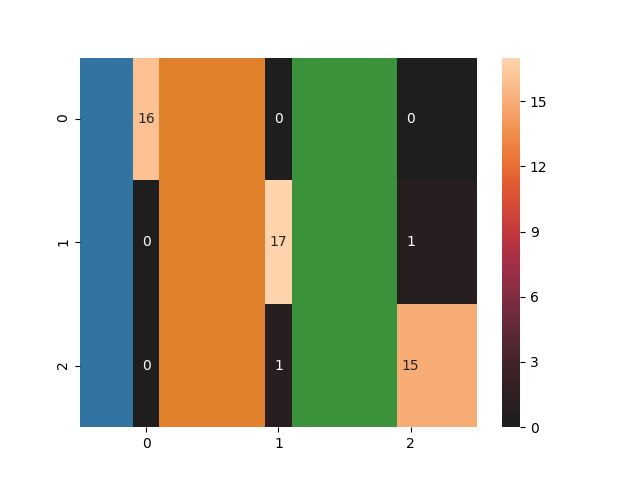
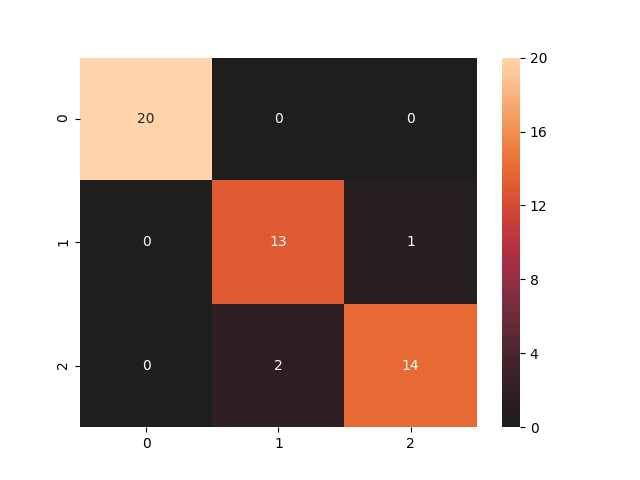
print buona

diff --git a/11-EvaluateAModel/main.py b/11-EvaluateAModel/main.py
@@ -4,6 +4,7 @@ from sklearn.metrics import accuracy_score, confusion_matrix, recall_score
 from sklearn.model_selection import train_test_split
 from sklearn.tree import DecisionTreeClassifier
 import numpy as np
+import matplotlib.pyplot as plt
 
 iris = load_iris()
 x = iris.data
@@ -17,14 +18,19 @@ decision_tree = DecisionTreeClassifier()
 decision_tree.fit(x_train, y_train)
 decision_tree_predictions = decision_tree.predict(x_test)
 
+plt.close()
+
 cnf_matrix = confusion_matrix(y_test, decision_tree_predictions)
-sns_plot = seaborn.heatmap(cnf_matrix, annot=True, fmt="d", center=0)
+sns_plot = seaborn.heatmap(cnf_matrix, annot=True, center=0)
 sns_plot.figure.savefig("cnf_matrix.png")
+plt.close()
+
 
 normalized_cnf_matrix = cnf_matrix.astype('float') / cnf_matrix.sum(axis=1)[:, np.newaxis]
-print(normalized_cnf_matrix)
 sns_plot = seaborn.heatmap(normalized_cnf_matrix, annot=True, center=0)
 sns_plot.figure.savefig("normalized_cnf_matrix.png")
+plt.close()
+
 
 print("decision tree perecision: ", accuracy_score(y_test, decision_tree_predictions))
 print("decision tree recal macro: ", recall_score(y_test, decision_tree_predictions, average='macro'))
